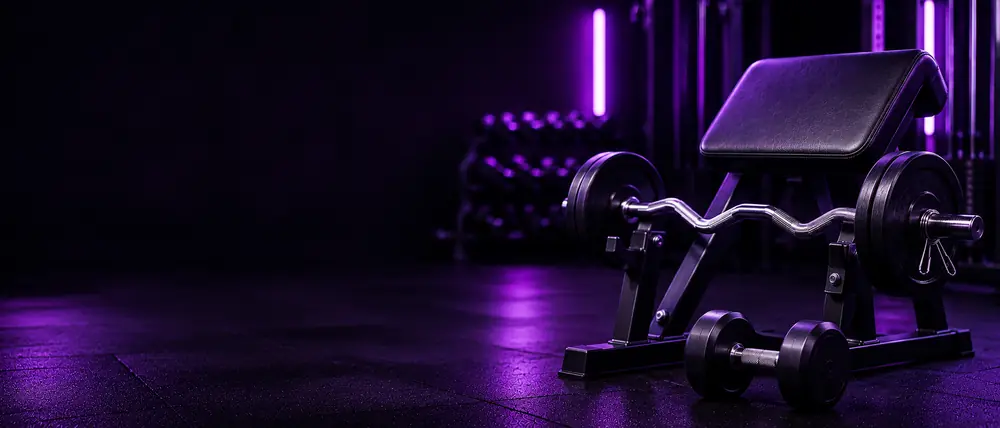
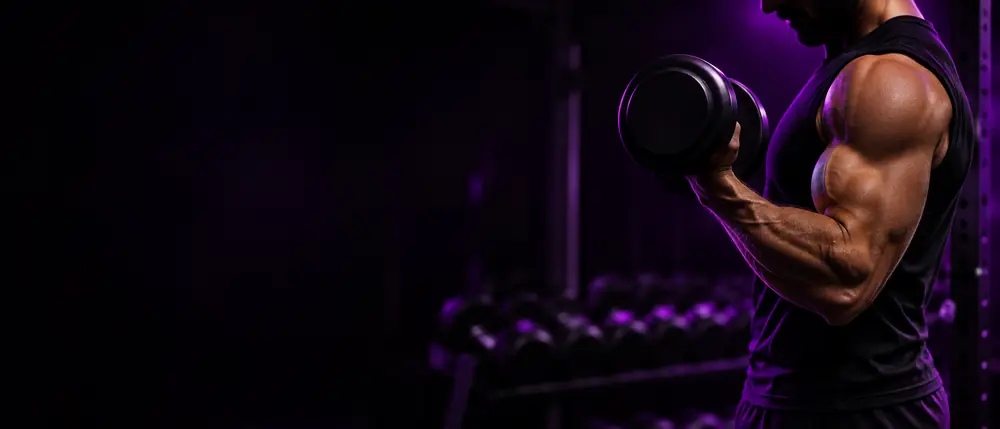
4.63.2: nueva foto del bloque BRAZOS
Claude-Session: https://claude.ai/code/session_01UhdHKNUv91veo2tZrwUash

diff --git a/app.js b/app.js
@@ -4,7 +4,7 @@
    Datos: localStorage (solo en este móvil). Sin fotos guardadas.
    ========================================================================= */
 
-const APP_VERSION = '4.63.1';
+const APP_VERSION = '4.63.2';
 const STORE_KEY = 'fitnesteban_v4';
 const OLD_KEY = 'fitnesteban_v3';
 const DEFAULT_MODEL = 'gemini-3-flash-preview';
@@ -5141,6 +5141,7 @@ function recipeSheet(mi, oi) {
 /* Tercer campo opcional: 'admin' = solo lo ve el administrador; 'quiet' = arreglo sin aviso.
    El resto de usuarios no reciben aviso por esas versiones; en el historial les sale «Mejoras en la aplicación». */
 const CHANGELOG = [
+  ['4.63.2', ['Nueva foto del bloque BRAZOS.'], 'quiet'],
   ['4.63.1', ['Se quita «⭐ Para ti» de las tarjetas de bloques.'], 'quiet'],
   ['4.63.0', ['🍑 Nuevo bloque GLÚTEO: 2 días para glúteo y piernas tonificadas.', '🦵 PIERNA pasa a ser TREN INFERIOR, ahora con 2 días: cuádriceps y femoral-cadera.', '✨ Los bloques nuevos se distinguen con la etiqueta NUEVO hasta que los abres.']],
   ['4.62.1', ['🗑 Si borras tu copia de un bloque de Esteban, ya no te vuelve a salir (queda en «Ver bloques ocultos» por si lo quieres recuperar).'], 'quiet'],

diff --git a/sw.js b/sw.js
@@ -1,6 +1,6 @@
 /* FITNESTEBAN service worker: funciona sin conexión.
    Al cambiar cualquier archivo de la app, sube el número de CACHE para que el móvil descargue la versión nueva. */
-const CACHE = 'fitnesteban-4.63.1';
+const CACHE = 'fitnesteban-4.63.2';
 const ASSETS = [
   './',
   './index.html',
